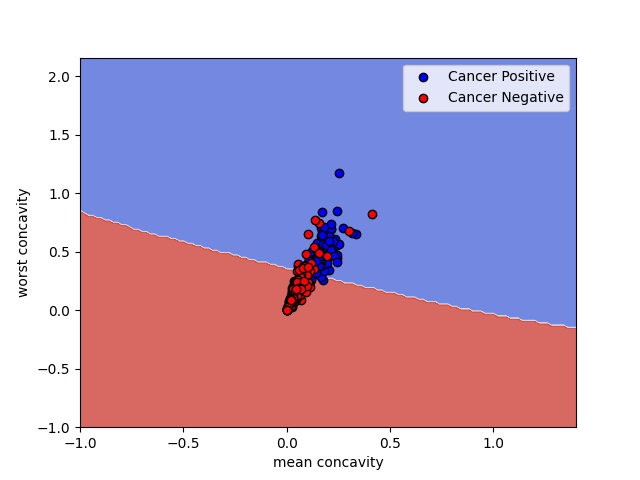
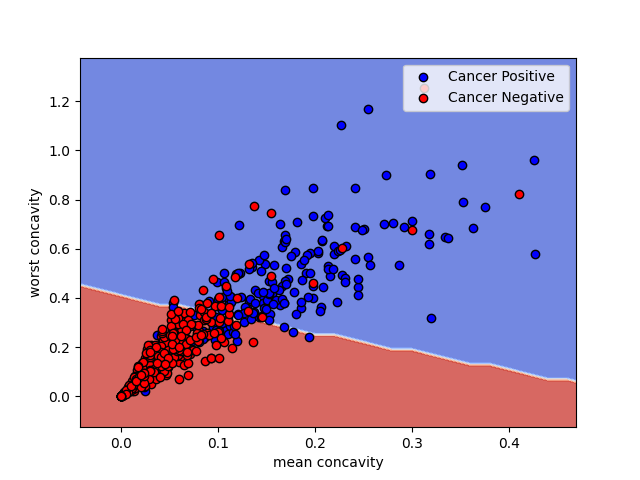
make get request to retrieve model accuracy

diff --git a/client/src/App.js b/client/src/App.js
@@ -7,41 +7,66 @@ import Slider from './components/slider.js'
 
 
 class App extends React.Component {
-  state = {plot_src: graph_img, x_var: 'mean concavity', y_var: 'worst concavity', degree: '1', cost: '1'}
+  state = {
+    plot_src: graph_img, 
+    x_var: 'mean concavity', 
+    y_var: 'worst concavity', 
+    degree: '1', 
+    cost: '1',
+    model_accuracy: null
+  }
 
+  handle_field_change=(id, value)=>{
+    this.setState({[id]: value}, ()=>{
+      console.log('app state:',this.state);
+    });
+  }
+
+  update_accuracy=()=>{
+    var request_params = {
+      headers: {
+        'Content-Type': "application/json;charset=utf-8"
+      },
+      method: 'GET'
+    }
+    fetch('/accuracy', request_params)
+      .then(res => res.json())
+      .then(res => {
+        console.log('accuracy stuff',res);
+        this.setState({model_accuracy: res.accuracy})
+      })
+  }
+
+  update_image=()=>{
+    var request_params = {
+      headers: {
+        'Content-Type': "application/json;charset=utf-8"
+      },
+      method: 'POST',
+      body: JSON.stringify(this.state),
+      redirect: 'follow'
+    };
+
+    fetch('/graph', request_params)
+      .then(res => {
+        return res.blob();
+      })
+      .then(res =>{
+        console.log('Response:', res);
+        var outside = URL.createObjectURL(res);
+        this.setState({plot_src: outside});
+      })
+      .catch(error => console.log('Error:', error));
+  }
   
+  refresh_graph=()=>{
+    this.update_image();
+    this.update_accuracy(); 
+  }
+
 
   render(){
-    const handle_field_change = (id, value) =>{
-      this.setState({[id]: value}, ()=>{
-        console.log('app state:',this.state);
-      });
-    }
-
-    const refresh_graph=()=>{
-      console.log('refresh');
-      var request_params = {
-        headers: {
-          'Content-Type': "application/json;charset=utf-8"
-        },
-        method: 'POST',
-        body: JSON.stringify(this.state),
-        redirect: 'follow'
-      };
-      fetch('/graph', request_params)
-        .then(res => {
-          var headers = res.getAllResponseHeaders();
-          console.log(headers);
-          return res.blob();
-        })
-        .then(res =>{
-          console.log('Response:', res);
-          var outside = URL.createObjectURL(res);
-          this.setState({plot_src: outside});
-        })
-        .catch(error => console.log('Error:', error));
-    }
-
+    
     return (
       <div className="App">
 
@@ -55,15 +80,15 @@ class App extends React.Component {
           </div>
           <div className='controls'>
             <div className='parameter-selectors'>
-              <Select id='x_var' variable_name='mean concavity' onChange={handle_field_change}/>
-              <Select id='y_var' variable_name='worst concavity' onChange={handle_field_change}/>
+              <Select id='x_var' variable_name='mean concavity' onChange={this.handle_field_change}/>
+              <Select id='y_var' variable_name='worst concavity' onChange={this.handle_field_change}/>
             </div>
             <div className='parameter-sliders'>
-              <Slider id='degree' min='1' max='5' onChange={handle_field_change}/>
-              <Slider id='cost' min='1' max='10' onChange={handle_field_change}/>
+              <Slider id='degree' min='1' max='5' onChange={this.handle_field_change}/>
+              <Slider id='cost' min='1' max='10' onChange={this.handle_field_change}/>
             </div>
             <div>
-              <button type='button' onClick={refresh_graph}>Generate Graph</button>
+              <button type='button' onClick={this.refresh_graph}>Generate Graph</button>
             </div>
           </div>
         </div>

diff --git a/app.js b/app.js
@@ -3,10 +3,10 @@ var express = require('express');
 var path = require('path');
 var cookieParser = require('cookie-parser');
 var logger = require('morgan');
-
 var indexRouter = require('./routes/index');
 var usersRouter = require('./routes/users');
 var graphRouter = require('./routes/graph');
+const {PythonShell} =require('python-shell'); 
 
 var app = express();
 
@@ -24,8 +24,10 @@ app.use('/', indexRouter);
 app.use('/users', usersRouter);
 //app.use('/graph', graphRouter);
 
-const {PythonShell} =require('python-shell'); 
+
 const get_graph = 'get_svm_plot.py';
+var model_accuracy = '0'
+
 app.post("/graph", (req, res, next)=>{ 
   var x1_label = req.body.x_var;
   var x2_label = req.body.y_var;
@@ -42,15 +44,7 @@ app.post("/graph", (req, res, next)=>{
           console.log(err);
       }
       console.log(results);
-      //res.json(results);
-      console.log(__dirname);
-      var options = {
-        headers: {
-          'accuracy': 'test'
-        }
-      }
-      res.header("Access-Control-Expose-Headers", "ETag");
-      res.header('accuracy','test');
+      model_accuracy = results[0]
       res.sendFile(__dirname + '/graph/graph.png', options, (err) =>{
         if(err)
           console.log(err);
@@ -59,6 +53,9 @@ app.post("/graph", (req, res, next)=>{
   });
 }); 
 
+app.get("/accuracy", (req, res)=>{ 
+  res.json({accuracy: model_accuracy});
+});
 
 
 // catch 404 and forward to error handler

diff --git a/svm_scripts/get_svm_plot.py b/svm_scripts/get_svm_plot.py
@@ -42,9 +42,9 @@ def plot_contours(ax, clf, xx, yy, **params):
     yy: meshgrid ndarray
     params: dictionary of params to pass to contourf, optional
     """
-    start_time = time.time()
+
     Z = clf.predict(np.c_[xx.ravel(), yy.ravel()])
-    print('plot contour prediction time:', time.time() - start_time)
+
     Z = Z.reshape(xx.shape)
     out = ax.contourf(xx, yy, Z, **params)
     return out
@@ -70,6 +70,24 @@ def create_model(x_train, y_train, degree, cost):
     rbf_model = clf.fit(x_train, np.ravel(y_train))
     return rbf_model
 
+
+def set_axlims(series, marginfactor):
+    """
+    Fix for a scaling issue with matplotlibs scatterplot and small values.
+    Takes in a pandas series, and a marginfactor (float).
+    A marginfactor of 0.2 would for example set a 20% border distance on both sides.
+    Output:[bottom,top]
+    To be used with .set_ylim(bottom,top)
+    """
+    minv = series.min()
+    maxv = series.max()
+    datarange = maxv-minv
+    border = abs(datarange*marginfactor)
+    maxlim = maxv+border
+    minlim = minv-border
+
+    return minlim,maxlim
+
 """
 # Update the svm model using the new parameters
 #
@@ -83,30 +101,22 @@ def create_model(x_train, y_train, degree, cost):
 def get_graph(x1_label, x2_label, degree, cost):
     # Get data corresponding to given labels
     X = cancer.loc[:,[x1_label, x2_label]]
-    start_time = time.time()
     # Split data into test and training sets
-    x_train, x_test, y_train, y_test = train_test_split(X, Y, test_size=0.7)
-    print('split training and test data time:', time.time() - start_time)
-    start_time = time.time()
+    x_train, x_test, y_train, y_test = train_test_split(X, Y, test_size=0.4)
     svm = create_model(x_train, y_train, degree, cost)
-    print('create svm model time:', time.time() - start_time)
     # Create plot
-    start_time = time.time()
     fig, ax = plt.subplots(1, 1)
     xx, yy = make_meshgrid(X.iloc[:,0], X.iloc[:,1])
-    print('making meshgrid:', time.time() - start_time)
-    start_time = time.time()
     plot_contours(ax, svm, xx, yy, cmap=plt.cm.coolwarm, alpha=0.8)
-    print('getting plot contours:', time.time() - start_time)
-    start_time = time.time()
+
     ax.scatter(yes_cancer.loc[:,[x1_label]], yes_cancer.loc[:,[x2_label]], 
         label="Cancer Positive", color="blue", edgecolors='k')
     ax.scatter(no_cancer.loc[:,[x1_label]], no_cancer.loc[:,[x2_label]], 
         label="Cancer Negative", color="red", edgecolors='k')
-    print('plotting data points:', time.time() - start_time)
-    start_time = time.time()
-    ax.autoscale(enable=True, axis='both', tight=True)
-    print('autoscale axes:', time.time() - start_time)
+    xlim_min, xlim_max = set_axlims(cancer.loc[:,[x1_label]], 0.1)
+    ax.set_xlim(float(xlim_min), float(xlim_max))
+    ylim_min, ylim_max = set_axlims(cancer.loc[:,[x2_label]], 0.1)
+    ax.set_ylim(float(ylim_min), float(ylim_max))
     ax.set_xlabel(x1_label)
     ax.set_ylabel(x2_label)
     ax.legend(loc="upper right")
@@ -120,20 +130,17 @@ x2_label = sys.argv[2]
 degree = int(sys.argv[3])
 cost = int(sys.argv[4])
 
-start_time = time.time()
-
 # load cancer dataset
 cancer = pd.read_csv('./svm_scripts/cancer.csv')
-num_rows = len(cancer.index)
-num_delete = int(0.5 * num_rows)
-drop_indices = np.random.choice(cancer.index, num_delete, replace=False)
-cancer = cancer.drop(drop_indices)
+#num_rows = len(cancer.index)
+#num_delete = int(0.5 * num_rows)
+#drop_indices = np.random.choice(cancer.index, num_delete, replace=False)
+#cancer = cancer.drop(drop_indices)
 # separate rows into cancer positive and cancer negative dataframes
 yes_cancer = cancer.loc[cancer['target'] == 0.0]
 no_cancer = cancer.loc[cancer['target'] == 1.0]
 # get cancer result rows
 Y = cancer.iloc[:,30:31]
-print('loading data/setup time:', time.time() - start_time)
 # create an svm model with the given parameters and save the plot
 get_graph(x1_label, x2_label, degree, cost)
 sys.stdout.flush()
